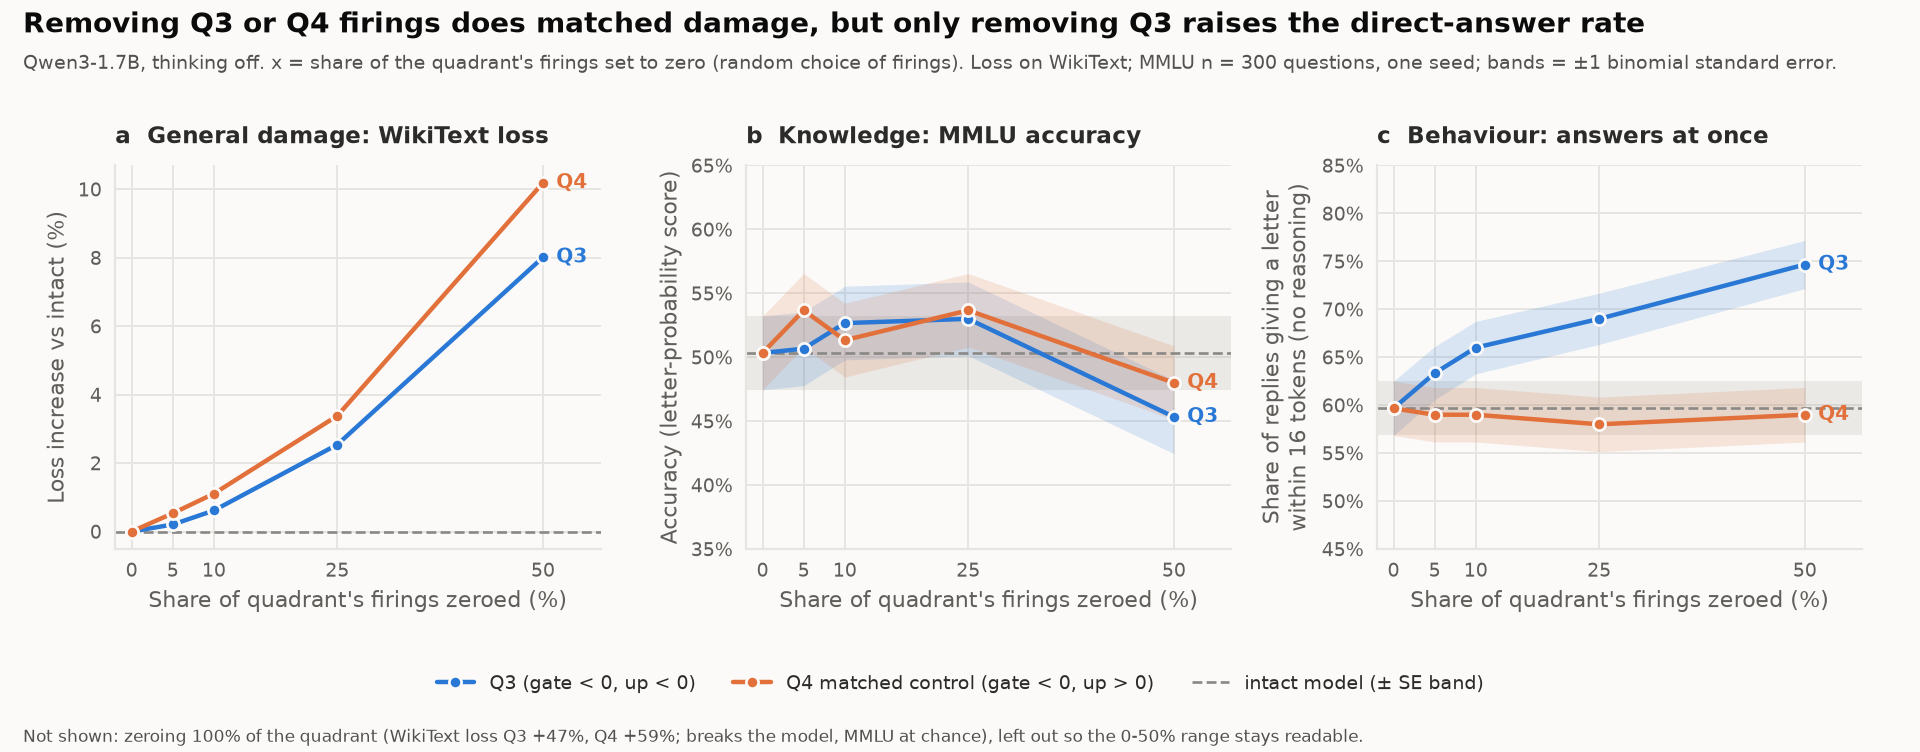
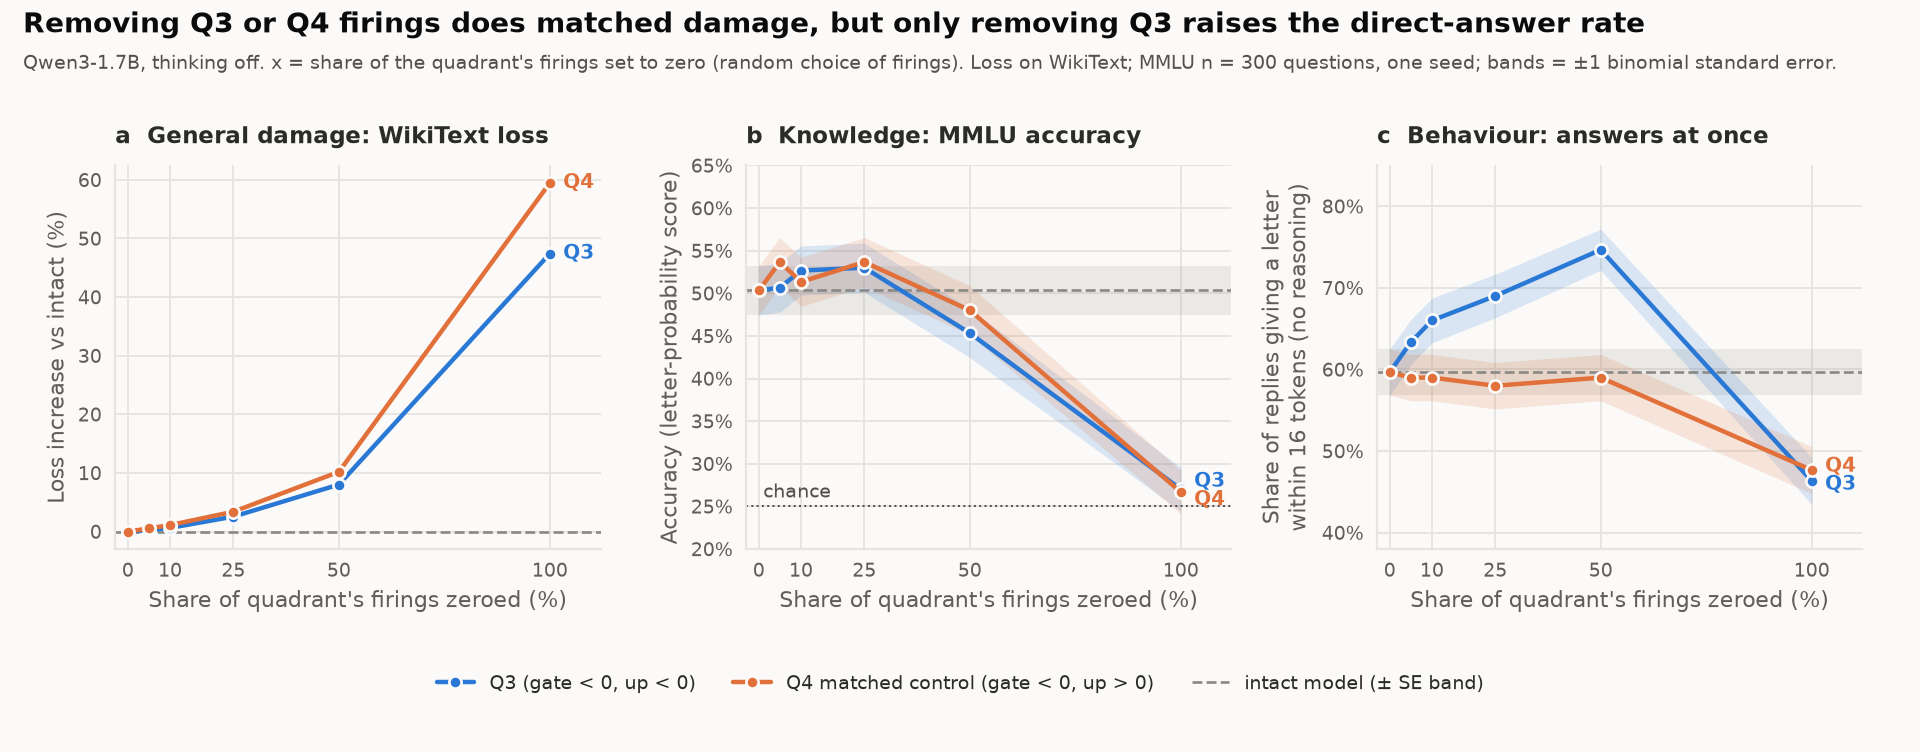
fig1: add the 100% removal point

diff --git a/src/figures/make_figures.py b/src/figures/make_figures.py
@@ -150,14 +150,14 @@ def fig1_damage_dose(folder: Path, out_dir: Path):
     dmg = load_damage(folder)
     if dmg is None or "none" not in dmg:
         return skip(name, "no damage.json (or no 'none' entry)")
-    doses = [0.05, 0.1, 0.25, 0.5]
+    doses = [0.05, 0.1, 0.25, 0.5, 1.0]  # 1.0 = the whole quadrant (key "<q>_zero")
     base = dmg["none"]
     n = base.get("mmlu_n", 300)
 
     def series(q: str, field: str, base_val):
         xs, ys = [0.0], [base_val]
         for d in doses:
-            r = dmg.get(f"{q}_zero@{d:g}")
+            r = dmg.get(f"{q}_zero" if d == 1.0 else f"{q}_zero@{d:g}")
             if r is not None and field in r:
                 xs.append(d * 100)
                 ys.append(r[field])
@@ -210,22 +210,20 @@ def fig1_damage_dose(folder: Path, out_dir: Path):
                         fontsize=9, fontweight="bold", color=col)
         ax.set_ylabel(ylabel)
         ax.set_xlabel("Share of quadrant's firings zeroed (%)")
-        ax.set_xticks([0, 5, 10, 25, 50])
-        ax.set_xlim(-2, 57)
+        ax.set_xticks([0, 10, 25, 50, 100])
+        ax.set_xlim(-3, 112)
         if is_rate:
             ax.yaxis.set_major_formatter(matplotlib.ticker.PercentFormatter(1.0, decimals=0))
     if "mmlu_direct_rate" in base:
-        axes[2].set_ylim(0.45, 0.85)
-    axes[1].set_ylim(0.35, 0.65)
+        axes[2].set_ylim(0.38, 0.85)
+    axes[1].set_ylim(0.2, 0.65)
+    axes[1].axhline(0.25, color=INK2, lw=0.9, ls=":")
+    axes[1].annotate("chance", (0, 0.25), xytext=(2, 4), textcoords="offset points", fontsize=8.5, color=INK2)
     handles, labels = axes[0].get_legend_handles_labels()
     from matplotlib.lines import Line2D
     handles.append(Line2D([], [], color=INTACT_COL, ls="--", lw=1.2))
     labels.append("intact model (± SE band)")
     fig.legend(handles, labels, loc="lower center", ncol=3, bbox_to_anchor=(0.5, 0.055))
-    full = [f"{q.upper()} {dmg[f'{q}_zero']['loss_increase_pct']:+.0f}%" for q in ("q3", "q4") if f"{q}_zero" in dmg]
-    if full:
-        add_footer(fig, "Not shown: zeroing 100% of the quadrant (WikiText loss " + ", ".join(full) +
-                   "; breaks the model, MMLU at chance), left out so the 0-50% range stays readable.")
     save(fig, out_dir, name)
 
 
